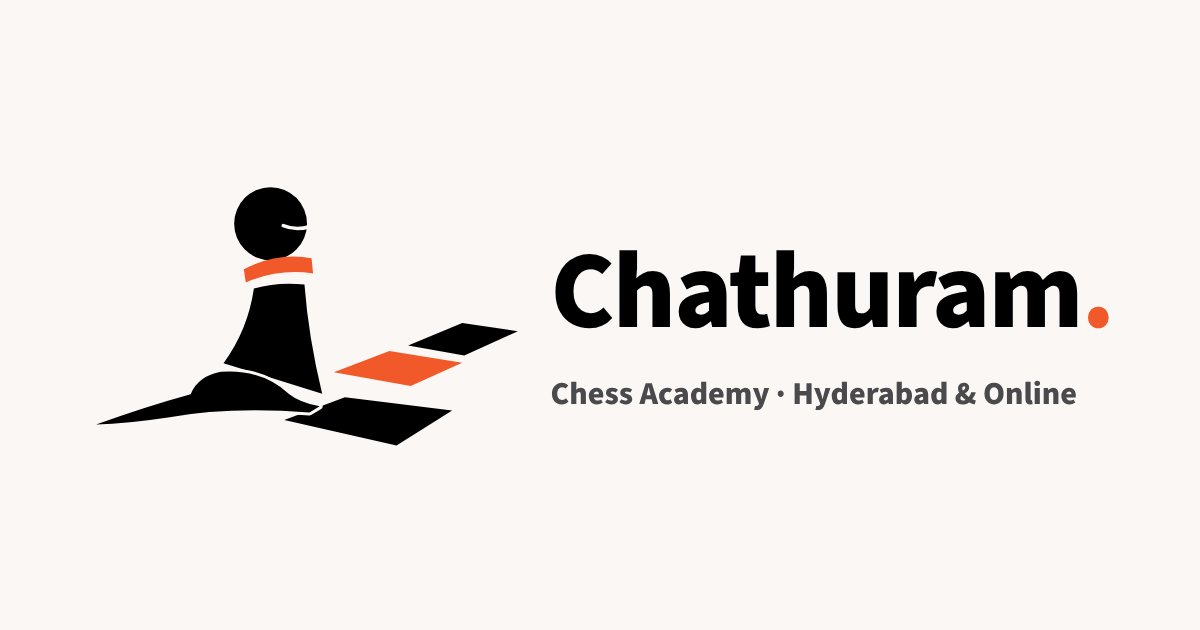
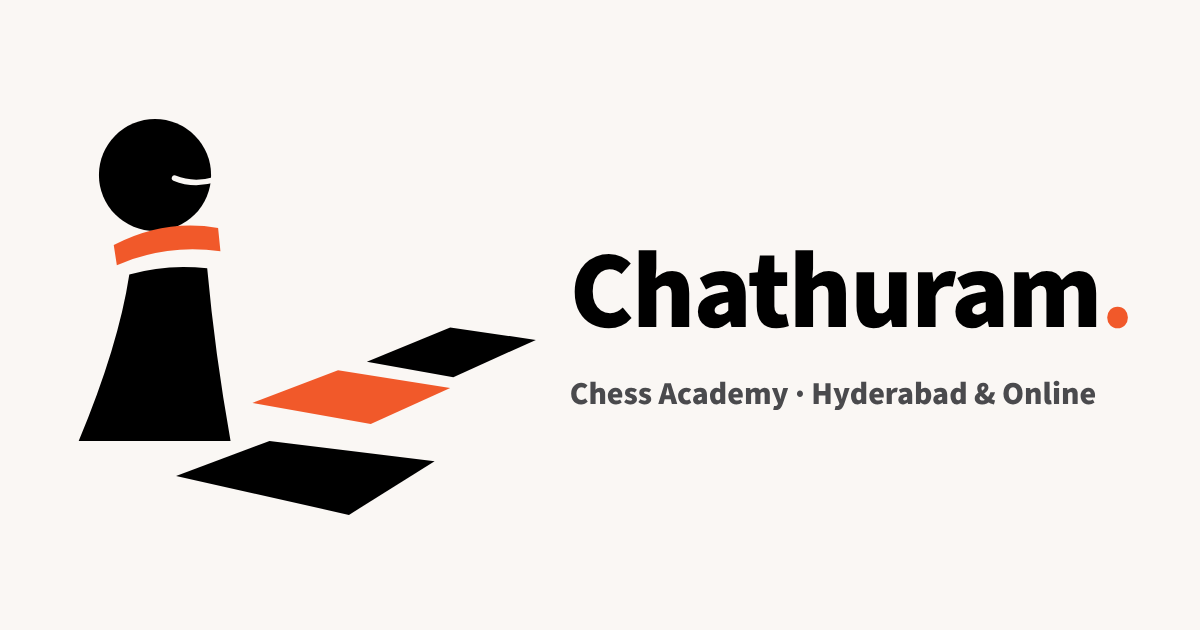
Remove the base under every chess piece
Pieces now end at the flat bottom of their body: the generated piece set,
the hero animation pieces, the header logo mascot (its swoosh base is
gone, the squares stay), the favicon, touch icon and link preview image.
The 'Meet the pieces' copy now describes how each piece moves.

Claude-Session: https://claude.ai/code/session_019FQg8EutgjEiux85aQnjjS

Changed region(s): [[0.0617, 0.181, 0.4317, 0.8143], [0.4625, 0.3921, 0.9558, 0.5429], [0.4625, 0.6032, 0.925, 0.6635]]

diff --git a/source/partials/blocks/pp-pieces.htm b/source/partials/blocks/pp-pieces.htm
@@ -1,13 +1,13 @@
 <!-- generated by tools/pieces.py: do not edit by hand -->
-      <defs><mask id="pp-pawn-h" maskUnits="userSpaceOnUse" x="-200" y="-40" width="700" height="620"><rect x="-200" y="-40" width="700" height="620" fill="#fff"/><path stroke="#000" d="M171 137 q24 10 52 2" fill="none" stroke-width="7" stroke-linecap="round"/></mask><mask id="pp-pawn-b" maskUnits="userSpaceOnUse" x="-200" y="-40" width="700" height="620"><rect x="-200" y="-40" width="700" height="620" fill="#fff"/><path d="M-120 522 Q-60 497 -12 469 Q3 433 48 425 Q128 419 183 469 Q203 485 243 493 L223 505 Q63 493 -57 515 Q-100 521 -120 522 Z" fill="#000" stroke="#000" stroke-width="12" stroke-linejoin="round"/></mask><mask id="pp-knight-h" maskUnits="userSpaceOnUse" x="-200" y="-40" width="700" height="620"><rect x="-200" y="-40" width="700" height="620" fill="#fff"/><circle fill="#000" cx="160" cy="84" r="8"/><path stroke="#000" d="M206 146 q14 6 32 0" fill="none" stroke-width="7" stroke-linecap="round"/></mask><mask id="pp-knight-b" maskUnits="userSpaceOnUse" x="-200" y="-40" width="700" height="620"><rect x="-200" y="-40" width="700" height="620" fill="#fff"/><path d="M0 512 V472 H150 V436 H300 V512 Z" fill="#000" stroke="#000" stroke-width="12" stroke-linejoin="round"/></mask><mask id="pp-bishop-h" maskUnits="userSpaceOnUse" x="-200" y="-40" width="700" height="620"><rect x="-200" y="-40" width="700" height="620" fill="#fff"/><path stroke="#000" d="M202 96 L174 118" fill="none" stroke-width="7" stroke-linecap="round"/><path stroke="#000" d="M166 154 q24 10 54 2" fill="none" stroke-width="7" stroke-linecap="round"/></mask><mask id="pp-bishop-b" maskUnits="userSpaceOnUse" x="-200" y="-40" width="700" height="620"><rect x="-200" y="-40" width="700" height="620" fill="#fff"/><path d="M-60 524 Q20 496 78 470 Q100 430 150 424 Q200 430 222 470 Q280 496 360 524 Q150 500 -60 524 Z" fill="#000" stroke="#000" stroke-width="12" stroke-linejoin="round"/></mask><mask id="pp-rook-h" maskUnits="userSpaceOnUse" x="-200" y="-40" width="700" height="620"><rect x="-200" y="-40" width="700" height="620" fill="#fff"/><path stroke="#000" d="M160 136 q18 8 40 1" fill="none" stroke-width="8" stroke-linecap="round"/></mask><mask id="pp-rook-b" maskUnits="userSpaceOnUse" x="-200" y="-40" width="700" height="620"><rect x="-200" y="-40" width="700" height="620" fill="#fff"/><path d="M36 448 H264 V512 H36 Z" fill="#000" stroke="#000" stroke-width="12" stroke-linejoin="round"/></mask><mask id="pp-queen-h" maskUnits="userSpaceOnUse" x="-200" y="-40" width="700" height="620"><rect x="-200" y="-40" width="700" height="620" fill="#fff"/><path stroke="#000" d="M168 142 q20 8 40 1" fill="none" stroke-width="7" stroke-linecap="round"/><path stroke="#000" d="M90 104 H210" fill="none" stroke-width="7"/></mask><mask id="pp-queen-b" maskUnits="userSpaceOnUse" x="-200" y="-40" width="700" height="620"><rect x="-200" y="-40" width="700" height="620" fill="#fff"/><path d="M-40 520 L56 468 V452 H244 V468 L340 520 Z" fill="#000" stroke="#000" stroke-width="12" stroke-linejoin="round"/></mask></defs>
+      <defs><mask id="pp-pawn-h" maskUnits="userSpaceOnUse" x="-200" y="-40" width="700" height="620"><rect x="-200" y="-40" width="700" height="620" fill="#fff"/><path stroke="#000" d="M171 137 q24 10 52 2" fill="none" stroke-width="7" stroke-linecap="round"/></mask><mask id="pp-knight-h" maskUnits="userSpaceOnUse" x="-200" y="-40" width="700" height="620"><rect x="-200" y="-40" width="700" height="620" fill="#fff"/><circle fill="#000" cx="160" cy="84" r="8"/><path stroke="#000" d="M206 146 q14 6 32 0" fill="none" stroke-width="7" stroke-linecap="round"/></mask><mask id="pp-bishop-h" maskUnits="userSpaceOnUse" x="-200" y="-40" width="700" height="620"><rect x="-200" y="-40" width="700" height="620" fill="#fff"/><path stroke="#000" d="M202 96 L174 118" fill="none" stroke-width="7" stroke-linecap="round"/><path stroke="#000" d="M166 154 q24 10 54 2" fill="none" stroke-width="7" stroke-linecap="round"/></mask><mask id="pp-rook-h" maskUnits="userSpaceOnUse" x="-200" y="-40" width="700" height="620"><rect x="-200" y="-40" width="700" height="620" fill="#fff"/><path stroke="#000" d="M160 136 q18 8 40 1" fill="none" stroke-width="8" stroke-linecap="round"/></mask><mask id="pp-queen-h" maskUnits="userSpaceOnUse" x="-200" y="-40" width="700" height="620"><rect x="-200" y="-40" width="700" height="620" fill="#fff"/><path stroke="#000" d="M168 142 q20 8 40 1" fill="none" stroke-width="7" stroke-linecap="round"/><path stroke="#000" d="M90 104 H210" fill="none" stroke-width="7"/></mask></defs>
       <g class="pp-pawn">
         <g class="pp-spin">
-          <g transform="translate(-46.5 -158.7) scale(0.31)">
-          <g class="pp-piece is-current" data-piece="pawn"><g fill="currentColor" mask="url(#pp-pawn-h)"><circle cx="146" cy="133" r="72"/></g><path d="M93 223 Q158 189 227 201 L230 231 Q161 221 97 249 Z" fill="#f1592a"/><path d="M113 261 Q161 247 213 253 Q221 358 248 468 L53 408 Q101 343 113 261 Z" fill="currentColor" mask="url(#pp-pawn-b)"/><path d="M-120 522 Q-60 497 -12 469 Q3 433 48 425 Q128 419 183 469 Q203 485 243 493 L223 505 Q63 493 -57 515 Q-100 521 -120 522 Z" fill="currentColor"/></g>
-          <g class="pp-piece" data-piece="knight"><g fill="currentColor" mask="url(#pp-knight-h)"><path d="M104 232 C92 160 96 92 116 50 L124 18 L146 46 C186 58 222 94 242 128 Q250 146 238 160 Q222 170 198 162 C192 186 194 206 198 232 Z"/></g><path d="M90 230 Q150 206 210 226 L212 254 Q150 232 88 258 Z" fill="#f1592a"/><path d="M106 272 Q150 262 198 272 Q210 360 250 490 L50 490 Q96 360 106 272 Z" fill="currentColor" mask="url(#pp-knight-b)"/><path d="M0 512 V472 H150 V436 H300 V512 Z" fill="currentColor"/></g>
-          <g class="pp-piece" data-piece="bishop"><g fill="currentColor" mask="url(#pp-bishop-h)"><circle cx="150" cy="40" r="17"/><path d="M150 62 C208 100 220 160 188 206 L112 206 C80 160 92 100 150 62 Z"/></g><path d="M95 220 Q150 196 205 220 L207 248 Q150 226 93 248 Z" fill="#f1592a"/><path d="M112 262 Q150 252 188 262 Q205 370 250 490 L50 490 Q95 370 112 262 Z" fill="currentColor" mask="url(#pp-bishop-b)"/><path d="M-60 524 Q20 496 78 470 Q100 430 150 424 Q200 430 222 470 Q280 496 360 524 Q150 500 -60 524 Z" fill="currentColor"/></g>
-          <g class="pp-piece" data-piece="rook"><g fill="currentColor" mask="url(#pp-rook-h)"><path d="M82 58 H114 V84 H134 V58 H166 V84 H186 V58 H218 V182 H82 Z"/></g><path d="M76 194 H224 V222 H76 Z" fill="#f1592a"/><path d="M98 238 H202 L216 490 H84 Z" fill="currentColor" mask="url(#pp-rook-b)"/><path d="M36 448 H264 V512 H36 Z" fill="currentColor"/></g>
-          <g class="pp-piece" data-piece="queen"><g fill="currentColor" mask="url(#pp-queen-h)"><path d="M86 112 L74 38 L112 78 L131 22 L150 70 L169 22 L188 78 L226 38 L214 112 Z"/><circle cx="74" cy="34" r="10"/><circle cx="131" cy="18" r="10"/><circle cx="169" cy="18" r="10"/><circle cx="226" cy="34" r="10"/><circle cx="150" cy="138" r="54"/></g><path d="M88 204 Q150 176 212 204 L214 232 Q150 208 86 232 Z" fill="#f1592a"/><path d="M110 248 Q150 238 190 248 Q206 360 252 490 L48 490 Q94 360 110 248 Z" fill="currentColor" mask="url(#pp-queen-b)"/><path d="M-40 520 L56 468 V452 H244 V468 L340 520 Z" fill="currentColor"/></g>
+          <g transform="translate(-46.5 -145.7) scale(0.31)">
+          <g class="pp-piece is-current" data-piece="pawn"><g fill="currentColor" mask="url(#pp-pawn-h)"><circle cx="146" cy="133" r="72"/></g><path d="M93 223 Q158 189 227 201 L230 231 Q161 221 97 249 Z" fill="#f1592a"/><path d="M113 261 Q161 247 213 253 Q222 370 248 470 L50 470 Q100 360 113 261 Z" fill="currentColor"/></g>
+          <g class="pp-piece" data-piece="knight"><g fill="currentColor" mask="url(#pp-knight-h)"><path d="M104 232 C92 160 96 92 116 50 L124 18 L146 46 C186 58 222 94 242 128 Q250 146 238 160 Q222 170 198 162 C192 186 194 206 198 232 Z"/></g><path d="M90 230 Q150 206 210 226 L212 254 Q150 232 88 258 Z" fill="#f1592a"/><path d="M106 272 Q150 262 198 272 Q210 360 246 470 L54 470 Q96 360 106 272 Z" fill="currentColor"/></g>
+          <g class="pp-piece" data-piece="bishop"><g fill="currentColor" mask="url(#pp-bishop-h)"><circle cx="150" cy="40" r="17"/><path d="M150 62 C208 100 220 160 188 206 L112 206 C80 160 92 100 150 62 Z"/></g><path d="M95 220 Q150 196 205 220 L207 248 Q150 226 93 248 Z" fill="#f1592a"/><path d="M112 262 Q150 252 188 262 Q205 370 246 470 L54 470 Q95 370 112 262 Z" fill="currentColor"/></g>
+          <g class="pp-piece" data-piece="rook"><g fill="currentColor" mask="url(#pp-rook-h)"><path d="M82 58 H114 V84 H134 V58 H166 V84 H186 V58 H218 V182 H82 Z"/></g><path d="M76 194 H224 V222 H76 Z" fill="#f1592a"/><path d="M98 238 H202 L215 470 H85 Z" fill="currentColor"/></g>
+          <g class="pp-piece" data-piece="queen"><g fill="currentColor" mask="url(#pp-queen-h)"><path d="M86 112 L74 38 L112 78 L131 22 L150 70 L169 22 L188 78 L226 38 L214 112 Z"/><circle cx="74" cy="34" r="10"/><circle cx="131" cy="18" r="10"/><circle cx="169" cy="18" r="10"/><circle cx="226" cy="34" r="10"/><circle cx="150" cy="138" r="54"/></g><path d="M88 204 Q150 176 212 204 L214 232 Q150 208 86 232 Z" fill="#f1592a"/><path d="M110 248 Q150 238 190 248 Q206 360 248 470 L52 470 Q94 360 110 248 Z" fill="currentColor"/></g>
           </g>
         </g>
       </g>

diff --git a/source/index.html b/source/index.html
@@ -84,35 +84,35 @@
     <div class="row mb-5">
       <div class="col-lg-7">
         <p class="eyebrow">Meet the pieces</p>
-        <h2 class="mb-3">Every piece stands the way it moves.</h2>
-        <p>Our pawn stands on a diagonal base because pawns capture diagonally. Every Chathuram piece follows the same idea: look at the base and you can see how it moves.</p>
+        <h2 class="mb-3">Meet the whole team.</h2>
+        <p>Reach the last square and a pawn can become a knight, a bishop, a rook or a queen. Here is how each of them moves.</p>
       </div>
     </div>
     <div class="row pieces-lineup">
       <div class="col-lg col-md-4 col-6 mb-5 piece-item" data-aos="fade-up">
         <img class="piece-img pose-tilt" src="images/brand/pieces/pawn.svg" alt="Chathuram pawn">
         <h3 class="h5">Pawn</h3>
-        <p>Steps forward, captures diagonally. <strong>A one-way diagonal base.</strong></p>
+        <p>Steps forward one square and captures diagonally.</p>
       </div>
       <div class="col-lg col-md-4 col-6 mb-5 piece-item" data-aos="fade-up" data-aos-delay="80">
         <img class="piece-img pose-flip" src="images/brand/pieces/knight.svg" alt="Chathuram knight">
         <h3 class="h5">Knight</h3>
-        <p>Jumps in an L. <strong>An L-shaped step for a base.</strong></p>
+        <p>Jumps in an L shape, even over other pieces.</p>
       </div>
       <div class="col-lg col-md-4 col-6 mb-5 piece-item" data-aos="fade-up" data-aos-delay="160">
         <img class="piece-img pose-tilt-back" src="images/brand/pieces/bishop.svg" alt="Chathuram bishop">
         <h3 class="h5">Bishop</h3>
-        <p>Slides along diagonals. <strong>A base sweeping down both diagonals.</strong></p>
+        <p>Slides any distance along the diagonals.</p>
       </div>
       <div class="col-lg col-md-4 col-6 mb-5 piece-item" data-aos="fade-up" data-aos-delay="240">
         <img class="piece-img" src="images/brand/pieces/rook.svg" alt="Chathuram rook">
         <h3 class="h5">Rook</h3>
-        <p>Moves in straight lines. <strong>A straight, square-edged base.</strong></p>
+        <p>Moves any distance in straight lines.</p>
       </div>
       <div class="col-lg col-md-4 col-6 mb-5 piece-item" data-aos="fade-up" data-aos-delay="320">
         <img class="piece-img pose-tilt" src="images/brand/pieces/queen.svg" alt="Chathuram queen">
         <h3 class="h5">Queen</h3>
-        <p>Straight and diagonal. <strong>A flat base with diagonal wings.</strong></p>
+        <p>Moves any distance, straight or diagonal.</p>
       </div>
     </div>
   </div>

diff --git a/source/partials/blocks/footer.htm b/source/partials/blocks/footer.htm
@@ -6,7 +6,7 @@
       <div class="row">
         <div class="col-lg-5 col-md-6 mb-5">
           <a class="brand-logo on-dark mb-3" href="index.html" aria-label="@@name home">
-            <img src="images/brand/pieces/pawn-light.svg" alt="" width="50" height="52">
+            <img src="images/brand/pieces/pawn-light.svg" alt="" width="26" height="52">
             <span class="brand-logo-text">Chathuram<span class="dot">.</span></span>
           </a>
           <p class="text-light">@@name. Chess coaching from FIDE-rated tutors, in Hyderabad and online. One square at a time.</p>

diff --git a/source/partials/blocks/navigation.htm b/source/partials/blocks/navigation.htm
@@ -20,7 +20,7 @@
     <div class="container">
       <nav class="navbar navbar-expand-lg navbar-light p-0">
         <a class="navbar-brand brand-logo" href="index.html" aria-label="@@name home">
-          <img src="images/brand/mascot.svg" alt="" width="100" height="62">
+          <img src="images/brand/mascot.svg" alt="" width="71" height="62">
           <span class="brand-logo-text">Chathuram<span class="dot">.</span></span>
         </a>
         <button class="navbar-toggler rounded-0" type="button" data-toggle="collapse" data-target="#navigation"

diff --git a/source/scss/templates/_scroll-rail.scss b/source/scss/templates/_scroll-rail.scss
@@ -78,10 +78,11 @@
     img {
       display: none;
       position: absolute;
-      left: 0;
+      left: 50%;
       bottom: 0;
-      width: 60px;
-      height: auto;
+      width: auto;
+      height: 56px;
+      transform: translateX(-50%);
 
       &.is-current {
         display: block;
@@ -192,7 +193,7 @@
     height: 30px;
 
     img {
-      width: 32px;
+      height: 30px;
     }
   }
 }

diff --git a/source/scss/templates/_homepage.scss b/source/scss/templates/_homepage.scss
@@ -354,7 +354,7 @@
   img {
     height: 230px;
     width: auto;
-    margin: 0 -30px;
+    margin: 0 6px;
 
     &:nth-child(2) {
       height: 280px;

diff --git a/tools/pieces.py b/tools/pieces.py
@@ -1,44 +1,36 @@
 """Generate the Chathuram chess-piece mascots.
 
 Every piece shares the mascot's look (black body, orange collar, a white
-smile notch) and sits on a base whose shape shows how the piece moves:
-  pawn   - a one-way diagonal sweep (pawns capture diagonally forward)
-  bishop - a sweep down both diagonals
-  rook   - a straight, square-edged slab
-  queen  - a flat slab with diagonal wings (straight + diagonal)
-  knight - an L-shaped step
+smile notch) and stands on the flat bottom of its body, with no base.
 
 Run from the repository root:  python3 tools/pieces.py
 """
 import os
 
 ORANGE = "#f1592a"
-VIEWBOX = "-130 0 520 540"
+VIEWBOX = "30 0 240 480"
 # where the piece meets the ground, used to stand pieces on squares
-ANCHOR = (150, 512)
+ANCHOR = (150, 470)
 
 PIECES = {
     "pawn": {
         "head": '<circle cx="146" cy="133" r="72"/>',
         "cuts": ['<path d="M171 137 q24 10 52 2" fill="none" stroke-width="7" stroke-linecap="round"/>'],
         "collar": "M93 223 Q158 189 227 201 L230 231 Q161 221 97 249 Z",
-        "body": "M113 261 Q161 247 213 253 Q221 358 248 468 L53 408 Q101 343 113 261 Z",
-        "base": "M-120 522 Q-60 497 -12 469 Q3 433 48 425 Q128 419 183 469 Q203 485 243 493 L223 505 Q63 493 -57 515 Q-100 521 -120 522 Z",
+        "body": "M113 261 Q161 247 213 253 Q222 370 248 470 L50 470 Q100 360 113 261 Z",
     },
     "bishop": {
         "head": '<circle cx="150" cy="40" r="17"/><path d="M150 62 C208 100 220 160 188 206 L112 206 C80 160 92 100 150 62 Z"/>',
         "cuts": ['<path d="M202 96 L174 118" fill="none" stroke-width="7" stroke-linecap="round"/>',
                  '<path d="M166 154 q24 10 54 2" fill="none" stroke-width="7" stroke-linecap="round"/>'],
         "collar": "M95 220 Q150 196 205 220 L207 248 Q150 226 93 248 Z",
-        "body": "M112 262 Q150 252 188 262 Q205 370 250 490 L50 490 Q95 370 112 262 Z",
-        "base": "M-60 524 Q20 496 78 470 Q100 430 150 424 Q200 430 222 470 Q280 496 360 524 Q150 500 -60 524 Z",
+        "body": "M112 262 Q150 252 188 262 Q205 370 246 470 L54 470 Q95 370 112 262 Z",
     },
     "rook": {
         "head": '<path d="M82 58 H114 V84 H134 V58 H166 V84 H186 V58 H218 V182 H82 Z"/>',
         "cuts": ['<path d="M160 136 q18 8 40 1" fill="none" stroke-width="8" stroke-linecap="round"/>'],
         "collar": "M76 194 H224 V222 H76 Z",
-        "body": "M98 238 H202 L216 490 H84 Z",
-        "base": "M36 448 H264 V512 H36 Z",
+        "body": "M98 238 H202 L215 470 H85 Z",
     },
     "queen": {
         "head": ('<path d="M86 112 L74 38 L112 78 L131 22 L150 70 L169 22 L188 78 L226 38 L214 112 Z"/>'
@@ -47,8 +39,7 @@ PIECES = {
         "cuts": ['<path d="M168 142 q20 8 40 1" fill="none" stroke-width="7" stroke-linecap="round"/>',
                  '<path d="M90 104 H210" fill="none" stroke-width="7"/>'],
         "collar": "M88 204 Q150 176 212 204 L214 232 Q150 208 86 232 Z",
-        "body": "M110 248 Q150 238 190 248 Q206 360 252 490 L48 490 Q94 360 110 248 Z",
-        "base": "M-40 520 L56 468 V452 H244 V468 L340 520 Z",
+        "body": "M110 248 Q150 238 190 248 Q206 360 248 470 L52 470 Q94 360 110 248 Z",
     },
     "knight": {
         "head": ('<path d="M104 232 C92 160 96 92 116 50 L124 18 L146 46 C186 58 222 94 242 128 '
@@ -56,8 +47,7 @@ PIECES = {
         "cuts": ['<circle cx="160" cy="84" r="8"/>',
                  '<path d="M206 146 q14 6 32 0" fill="none" stroke-width="7" stroke-linecap="round"/>'],
         "collar": "M90 230 Q150 206 210 226 L212 254 Q150 232 88 258 Z",
-        "body": "M106 272 Q150 262 198 272 Q210 360 250 490 L50 490 Q96 360 106 272 Z",
-        "base": "M0 512 V472 H150 V436 H300 V512 Z",
+        "body": "M106 272 Q150 262 198 272 Q210 360 246 470 L54 470 Q96 360 106 272 Z",
     },
 }
 
@@ -67,20 +57,16 @@ ORDER = ["pawn", "knight", "bishop", "rook", "queen"]
 def piece_group(name, fill, prefix):
     """Shapes for one piece. Mask ids are prefixed so several pieces can share a page."""
     p = PIECES[name]
-    head_id, body_id = f"{prefix}{name}-h", f"{prefix}{name}-b"
+    head_id = f"{prefix}{name}-h"
     cuts = "".join(c.replace("<path", '<path stroke="#000"').replace("<circle", '<circle fill="#000"') for c in p["cuts"])
     masks = (
         f'<mask id="{head_id}" maskUnits="userSpaceOnUse" x="-200" y="-40" width="700" height="620">'
         f'<rect x="-200" y="-40" width="700" height="620" fill="#fff"/>{cuts}</mask>'
-        f'<mask id="{body_id}" maskUnits="userSpaceOnUse" x="-200" y="-40" width="700" height="620">'
-        f'<rect x="-200" y="-40" width="700" height="620" fill="#fff"/>'
-        f'<path d="{p["base"]}" fill="#000" stroke="#000" stroke-width="12" stroke-linejoin="round"/></mask>'
     )
     shapes = (
         f'<g fill="{fill}" mask="url(#{head_id})">{p["head"]}</g>'
         f'<path d="{p["collar"]}" fill="{ORANGE}"/>'
-        f'<path d="{p["body"]}" fill="{fill}" mask="url(#{body_id})"/>'
-        f'<path d="{p["base"]}" fill="{fill}"/>'
+        f'<path d="{p["body"]}" fill="{fill}"/>'
     )
     return masks, shapes
 

diff --git a/README.md b/README.md
@@ -15,7 +15,7 @@ Built from the [Educenter](https://github.com/themefisher/educenter) template by
 - **Shared parts**: `source/partials/` (menu, footer, call-to-action, program cards, pawn animation).
 - **Colours and fonts**: `source/scss/_variables.scss`.
 - **Logo and mascot**: `source/images/brand/` (`mascot.svg`, `pawn.svg`, favicons, social preview image).
-- **Chess-piece mascots**: `source/images/brand/pieces/` (dark and `-light` versions). Each piece's base shows how it moves. They are generated by `python3 tools/pieces.py`, so edit the shapes there and re-run it.
+- **Chess-piece mascots**: `source/images/brand/pieces/` (dark and `-light` versions). They are generated by `python3 tools/pieces.py`, so edit the shapes there and re-run it.
 - **Pawn animation**: the pawn hops up the 8 level squares, then promotes to a queen, knight, rook and bishop. Markup in `source/partials/blocks/pawn-path.htm` (pieces in the generated `pp-pieces.htm`), motion in `source/js/script.js`, styles in `source/scss/templates/_pawn-path.scss`. It pauses when off screen and shows a still frame for visitors who prefer reduced motion.
 
 - **Scroll strip**: on wide screens a strip of squares runs down the left edge of every page; on laptops and phones it runs along the bottom of the header (`scroll-bar.htm`). As you scroll, the square under the pawn dissolves and the pawn drops onto the next one, becoming a queen at the bottom. Markup in `source/partials/blocks/scroll-rail.htm`, styles in `source/scss/templates/_scroll-rail.scss`, motion in `source/js/script.js`.
